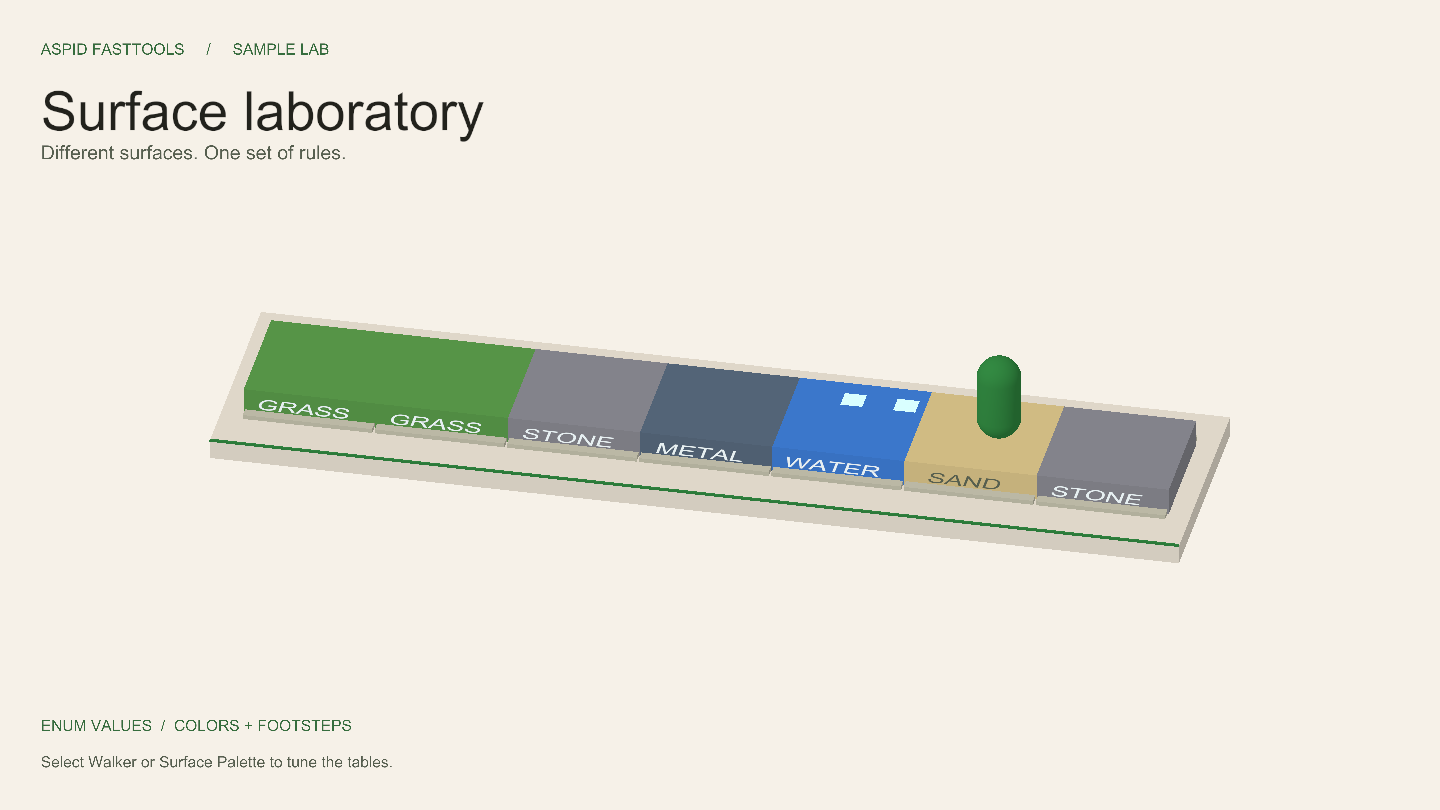
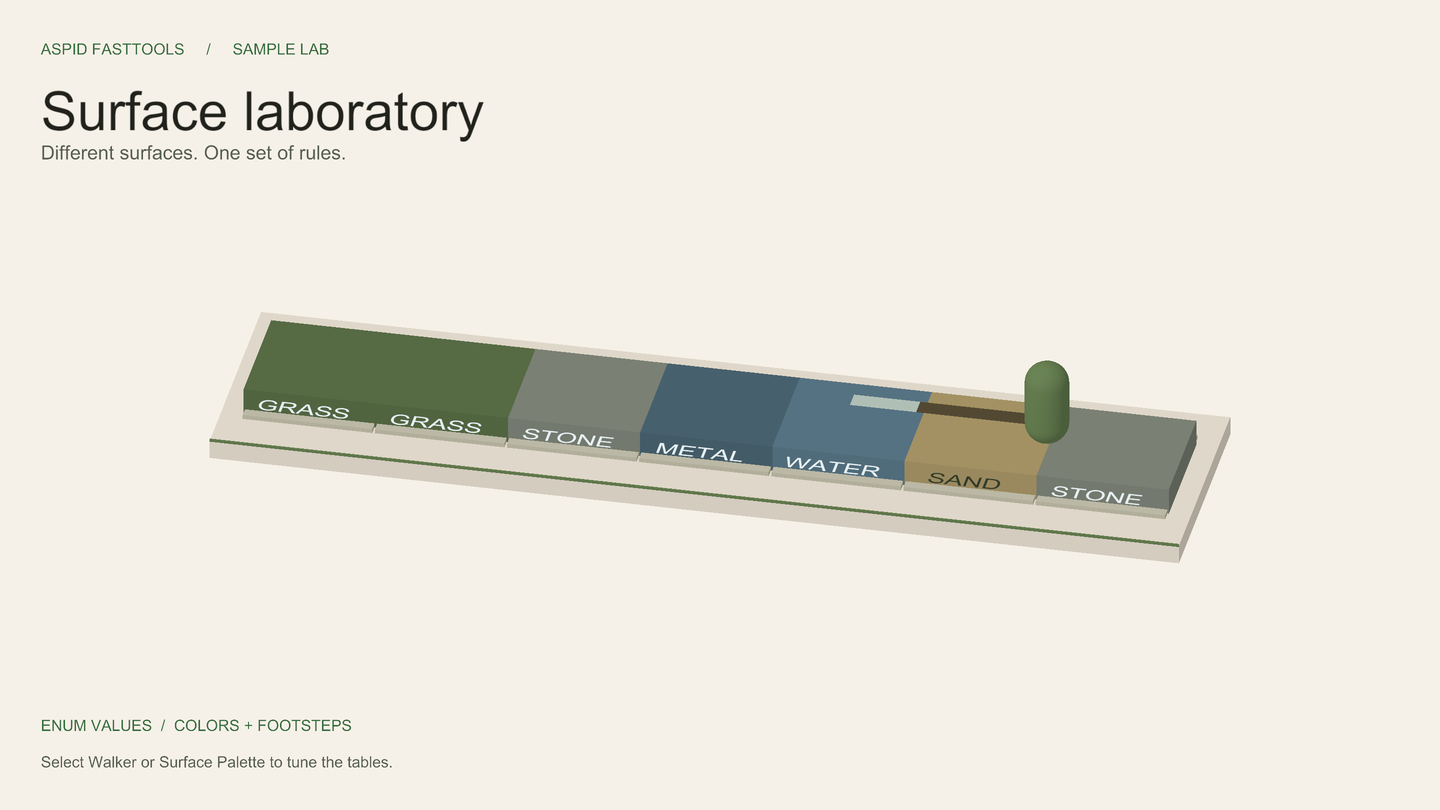
feat(samples): refine demo media and add continuous surface trails
- Remove duplicate article covers and decorative GIF text.
- Replace footprints with a wider trail that changes color at tile boundaries.
- Improve capture quality and harmonize light and dark accent palettes.

diff --git a/Samples~/EnumValues/Scripts/Walker.cs b/Samples~/EnumValues/Scripts/Walker.cs
@@ -4,8 +4,8 @@ using Aspid.FastTools.Enums;
 // ReSharper disable once CheckNamespace
 namespace Aspid.FastTools.Samples.EnumValues
 {
-    // Paces back and forth over the tiles. Step cadence comes from the surface, speed from the terrain flags,
-    // footprint color from the palette; every value is an EnumValues lookup with a default fallback.
+    // Paces over the tiles, drawing a continuous trail. Color sampling comes from the surface, speed from
+    // terrain flags and trail color from the palette; every lookup has a default fallback.
     public sealed class Walker : MonoBehaviour
     {
         [SerializeField] private SurfacePalette _palette;
@@ -13,20 +13,25 @@ namespace Aspid.FastTools.Samples.EnumValues
         [SerializeField] [Min(1f)] private float _range = 10f;
 
         // Enum fixed in code. No row for a surface means the Default Value.
-        [SerializeField] private EnumValues<SurfaceType, float> _stepInterval;
+        [SerializeField] [InspectorName("Color Sample Interval")]
+        private EnumValues<SurfaceType, float> _stepInterval;
 
         // Enum picked in the Inspector (TerrainFlags here). [Flags] lookup: an exact key wins first, then the
         // first entry whose flags are all contained in the value, then the default.
         [SerializeField] private EnumValues<float> _speedByTerrain;
 
-        [SerializeField] [Min(0.1f)] private float _footprintLifetime = 2f;
-
-        private static readonly int _baseColorId = Shader.PropertyToID("_BaseColor");
-        private static readonly int _colorId = Shader.PropertyToID("_Color");
+        [SerializeField] [Min(0.1f)] [InspectorName("Trail Lifetime")]
+        private float _footprintLifetime = 2f;
 
         private int _direction = 1;
         private float _nextStep;
         private SurfaceTile _tile;
+        private SurfaceTrail _trail;
+        private Material _trailMaterial;
+        private Color _trailColor;
+        private Vector3 _lastTrailPosition;
+
+        private void Awake() => _trailMaterial = GetComponent<Renderer>().sharedMaterial;
 
         private void Update()
         {
@@ -35,11 +40,39 @@ namespace Aspid.FastTools.Samples.EnumValues
             if (Mathf.Abs(position.x) > _range) _direction = -_direction;
             transform.position = position;
 
+            var previousTile = _tile;
             _tile = FindTileBelow();
-            if (_tile is null || Time.time < _nextStep) return;
+            if (_tile is null)
+            {
+                FinishTrail();
+                return;
+            }
 
-            _nextStep = Time.time + _stepInterval.GetValue(_tile.Surface);
-            LeaveFootprint(_tile.Surface);
+            var trailPosition = transform.position + Vector3.down * 0.49f;
+            if (_trail == null || previousTile != _tile || Time.time >= _nextStep)
+            {
+                _nextStep = Time.time + Mathf.Max(0.02f, _stepInterval.GetValue(_tile.Surface));
+                var color = _palette.GetFootprintColor(_tile.Surface);
+                if (_trail == null || color != _trailColor)
+                {
+                    var join = trailPosition;
+                    if (_trail != null && previousTile != null && previousTile != _tile)
+                    {
+                        // These tiles are axis-aligned: split at the collider edge, not the previous frame.
+                        var bounds = previousTile.GetComponent<Collider>().bounds;
+                        var edge = trailPosition.x > _lastTrailPosition.x ? bounds.max.x : bounds.min.x;
+                        var fraction = Mathf.InverseLerp(_lastTrailPosition.x, trailPosition.x, edge);
+                        join = Vector3.Lerp(_lastTrailPosition, trailPosition, fraction);
+                        join.x = edge;
+                    }
+                    if (_trail != null) _trail.AddPoint(join, true);
+                    BeginTrail(join, color);
+                }
+            }
+
+            // Geometry follows every frame; table sampling never creates gaps between points.
+            _trail.AddPoint(trailPosition);
+            _lastTrailPosition = trailPosition;
         }
 
         private SurfaceTile FindTileBelow() =>
@@ -47,29 +80,31 @@ namespace Aspid.FastTools.Samples.EnumValues
                 ? hit.collider.GetComponent<SurfaceTile>()
                 : null;
 
-        private void LeaveFootprint(SurfaceType surface)
+        private void BeginTrail(Vector3 position, Color color)
         {
-            var print = GameObject.CreatePrimitive(PrimitiveType.Quad);
-            Destroy(print.GetComponent<Collider>());
-            print.name = $"Footprint ({surface})";
-            print.transform.SetPositionAndRotation(transform.position + Vector3.down * 0.49f, Quaternion.Euler(90f, 0f, 0f));
-            print.transform.localScale = Vector3.one * 0.5f;
-
-            var block = new MaterialPropertyBlock();
-            var color = _palette.GetFootprintColor(surface);
-            block.SetColor(_baseColorId, color);
-            block.SetColor(_colorId, color);
-            print.GetComponent<Renderer>().SetPropertyBlock(block);
-
-            Destroy(print, _footprintLifetime);
+            FinishTrail();
+            var trailObject = new GameObject("Surface trail");
+            _trail = trailObject.AddComponent<SurfaceTrail>();
+            _trail.Initialize(_trailMaterial, color, _footprintLifetime);
+            _trailColor = color;
+            _trail.AddPoint(position, true);
         }
+
+        private void FinishTrail()
+        {
+            if (_trail == null) return;
+            Destroy(_trail.gameObject, _footprintLifetime);
+            _trail = null;
+        }
+
+        private void OnDisable() => FinishTrail();
 
         [ContextMenu("Log Tables")]
         private void LogTables()
         {
             // foreach yields the configured rows only, in list order; the default value is not part of it.
             foreach (var (surface, interval) in _stepInterval)
-                Debug.Log($"Step interval {surface}: {interval:0.00}s", this);
+                Debug.Log($"Color sample interval {surface}: {interval:0.00}s", this);
 
             foreach (var (flags, multiplier) in _speedByTerrain)
                 Debug.Log($"Speed x{multiplier:0.00} on [{flags}]", this);

diff --git a/Samples~/EnumValues/Scripts/SurfaceTrail.cs b/Samples~/EnumValues/Scripts/SurfaceTrail.cs
@@ -1,0 +1,89 @@
+using System.Collections.Generic;
+using UnityEngine;
+
+namespace Aspid.FastTools.Samples.EnumValues
+{
+    // A flat ribbon on the floor. Each color section keeps its own history, so palette changes do not
+    // recolor old points. Time-based trimming moves the tail smoothly instead of removing whole marks.
+    public sealed class SurfaceTrail : MonoBehaviour
+    {
+        private readonly List<Vector3> _points = new();
+        private readonly List<float> _times = new();
+        private readonly List<Vector3> _vertices = new();
+        private readonly List<Vector3> _normals = new();
+        private readonly List<int> _triangles = new();
+        private Mesh _mesh;
+        private float _lifetime;
+
+        public void Initialize(Material material, Color color, float lifetime)
+        {
+            _lifetime = lifetime;
+            _mesh = new Mesh { name = "Surface trail ribbon" };
+            _mesh.MarkDynamic();
+            gameObject.AddComponent<MeshFilter>().sharedMesh = _mesh;
+            var renderer = gameObject.AddComponent<MeshRenderer>();
+            renderer.sharedMaterial = material;
+            renderer.shadowCastingMode = UnityEngine.Rendering.ShadowCastingMode.Off;
+            renderer.receiveShadows = false;
+            var block = new MaterialPropertyBlock();
+            block.SetColor("_Color", color);
+            block.SetColor("_BaseColor", color);
+            renderer.SetPropertyBlock(block);
+        }
+
+        public void AddPoint(Vector3 position, bool force = false)
+        {
+            if (!force && _points.Count > 0 && Vector3.Distance(_points[_points.Count - 1], position) < 0.02f) return;
+            _points.Add(position);
+            _times.Add(Time.time);
+        }
+
+        private void LateUpdate()
+        {
+            var cutoff = Time.time - _lifetime;
+            while (_times.Count > 1 && _times[1] <= cutoff)
+            {
+                _times.RemoveAt(0);
+                _points.RemoveAt(0);
+            }
+
+            _mesh.Clear();
+            if (_points.Count < 2) return;
+            _vertices.Clear();
+            _normals.Clear();
+            _triangles.Clear();
+            var halfWidth = Vector3.forward * 0.225f;
+            for (var i = 0; i < _points.Count; i++)
+            {
+                var point = _points[i];
+                if (i == 0 && _times[0] < cutoff)
+                    point = Vector3.Lerp(point, _points[1], Mathf.InverseLerp(_times[0], _times[1], cutoff));
+                _vertices.Add(point + halfWidth);
+                _vertices.Add(point - halfWidth);
+                _normals.Add(Vector3.up);
+                _normals.Add(Vector3.up);
+                if (i == 0) continue;
+                var a = (i - 1) * 2;
+                if (_points[i].x >= _points[i - 1].x)
+                {
+                    _triangles.Add(a); _triangles.Add(a + 2); _triangles.Add(a + 1);
+                    _triangles.Add(a + 1); _triangles.Add(a + 2); _triangles.Add(a + 3);
+                }
+                else
+                {
+                    _triangles.Add(a); _triangles.Add(a + 1); _triangles.Add(a + 2);
+                    _triangles.Add(a + 1); _triangles.Add(a + 3); _triangles.Add(a + 2);
+                }
+            }
+            _mesh.SetVertices(_vertices);
+            _mesh.SetNormals(_normals);
+            _mesh.SetTriangles(_triangles, 0);
+            _mesh.RecalculateBounds();
+        }
+
+        private void OnDestroy()
+        {
+            if (_mesh != null) Destroy(_mesh);
+        }
+    }
+}

diff --git a/Samples~/EnumValues/Documentation/README.md b/Samples~/EnumValues/Documentation/README.md
@@ -1,8 +1,6 @@
 # EnumValues Sample
 
-![The surface laboratory: a labeled track and a moving walker.](Images/scene.png)
-
-A character pacing over a row of floor tiles. The tile color, the footprint color, the step cadence and the walking speed are all `EnumValues` lookups keyed by a surface enum or a `[Flags]` terrain enum, configured in the Inspector with a default fallback. The API reference lives in [EnumValues](../../../Documentation/06-enum-values.md).
+A character pacing over a row of floor tiles. The tile color, the trail color, the color sampling interval and the walking speed are all `EnumValues` lookups keyed by a surface enum or a `[Flags]` terrain enum, configured in the Inspector with a default fallback. The API reference lives in [EnumValues](../../../Documentation/06-enum-values.md).
 
 ```csharp
 [SerializeField] private EnumValues<SurfaceType, float> _stepInterval; // enum fixed in code
@@ -16,16 +14,16 @@ Surface colors and footprint colors, each with a Default Value.
 ## Open it
 
 1. Import the sample and open `Scenes/EnumValues.unity`.
-2. Enter Play Mode: the **Walker** crosses seven tiles, leaving colored footprints that disappear after two seconds, faster on hot metal and slower on wet grass.
+2. Enter Play Mode: the **Walker** crosses seven tiles, leaving a continuous colored trail whose older end recedes after two seconds. Movement is faster on hot metal and slower on wet grass.
 
-![The walker crosses different surfaces and leaves colored footprints.](Images/demo.gif)
+![The walker crosses different surfaces and leaves a continuous colored trail.](Images/demo.gif)
 
-The walker crosses different surfaces and leaves colored footprints.
+The walker crosses different surfaces and leaves a continuous colored trail.
 
 ## Try
 
 1. **Typed variant.** Select `Data/SurfacePalette.asset`. Both tables are `EnumValues<SurfaceType, Color>`: the enum row is read-only because the type is fixed by the field. Change the `Grass` color; the tiles recolor immediately, without Play Mode.
-2. **Default value.** `Footprint Colors` has rows only for `Grass`, `Sand` and `Water`. Stone and metal footprints use `Default Value`. Right-click the field and choose **Populate Missing Enum Members** to add the rest, seeded with that default.
+2. **Default value.** `Footprint Colors` has rows only for `Grass`, `Sand` and `Water`. Trail segments on stone and metal use `Default Value`. Right-click the field and choose **Populate Missing Enum Members** to add the rest, seeded with that default.
 3. **Untyped variant.** Select **Walker**. `Speed By Terrain` is an `EnumValues<float>` whose enum, `TerrainFlags`, was picked in the header row. Each key is a flags dropdown, and `Wet, Slippery` is a row of its own.
 4. **`[Flags]` lookup rules**, visible as the walker crosses the tiles:
    - an **exact** key wins first: the `Water (Wet, Slippery)` tile resolves to the `Wet, Slippery` row (`0.5`), even though `Wet` and `Slippery` rows exist;
@@ -40,5 +38,6 @@ The walker crosses different surfaces and leaves colored footprints.
 |---|---|
 | `Scripts/SurfacePalette.cs` | `EnumValues<TEnum, TValue>` on a ScriptableObject |
 | `Scripts/Walker.cs` | Both variants in a component, `GetValue` on a plain and a `[Flags]` key, `foreach` |
+| `Scripts/SurfaceTrail.cs` | Draws a continuous ribbon and trims points by age |
 | `Scripts/SurfaceTile.cs` | Checks the palette color on editor updates, applying edits and Undo without Play Mode |
 | `Scripts/TerrainFlags.cs` | The `[Flags]` enum with combinable members |

diff --git a/Samples~/EnumValues/Documentation/README.ru.md b/Samples~/EnumValues/Documentation/README.ru.md
@@ -1,8 +1,6 @@
 # Пример EnumValues
 
-![Лаборатория поверхностей: подписанная дорожка и движущийся персонаж.](Images/scene.png)
-
-Персонаж ходит по ряду плиток. Цвет плитки, цвет следа, частота шагов и скорость — всё это `EnumValues`-поиски по enum поверхности или `[Flags]`-enum рельефа, настроенные в инспекторе со значением по умолчанию. Справочник — [EnumValues](../../../Documentation/ru/06-enum-values.md).
+Персонаж ходит по ряду плиток. Цвет плитки, цвет следа, интервал обновления цвета и скорость — всё это `EnumValues`-поиски по enum поверхности или `[Flags]`-enum рельефа, настроенные в инспекторе со значением по умолчанию. Справочник — [EnumValues](../../../Documentation/ru/06-enum-values.md).
 
 ```csharp
 [SerializeField] private EnumValues<SurfaceType, float> _stepInterval; // enum задан в коде
@@ -16,11 +14,11 @@
 ## Как открыть
 
 1. Импортируйте пример и откройте `Scenes/EnumValues.unity`.
-2. Войдите в Play Mode: **Walker** проходит семь плиток, оставляя цветные следы, которые исчезают через две секунды, быстрее на горячем металле и медленнее на мокрой траве.
+2. Войдите в Play Mode: **Walker** проходит семь плиток, оставляя непрерывную цветную линию. Её старый конец сокращается через две секунды. На горячем металле персонаж движется быстрее, на мокрой траве — медленнее.
 
-![Персонаж проходит по разным поверхностям и оставляет цветные следы.](Images/demo.gif)
+![Персонаж проходит по разным поверхностям и оставляет непрерывную цветную линию.](Images/demo.gif)
 
-Персонаж проходит по разным поверхностям и оставляет цветные следы.
+Персонаж проходит по разным поверхностям и оставляет непрерывную цветную линию.
 
 ## Попробуйте
 
@@ -40,5 +38,6 @@
 |---|---|
 | `Scripts/SurfacePalette.cs` | `EnumValues<TEnum, TValue>` на ScriptableObject |
 | `Scripts/Walker.cs` | Оба варианта в компоненте, `GetValue` по обычному и `[Flags]`-ключу, `foreach` |
+| `Scripts/SurfaceTrail.cs` | Рисует непрерывную линию и убирает старые точки |
 | `Scripts/SurfaceTile.cs` | Следит за цветом из палитры через editor update; применяет изменения и Undo без Play Mode |
 | `Scripts/TerrainFlags.cs` | `[Flags]`-enum с комбинируемыми членами |

diff --git a/Samples~/Types/Documentation/README.ru.md b/Samples~/Types/Documentation/README.ru.md
@@ -1,7 +1,5 @@
 # Пример Types
 
-![Арена: обычные и элитные враги движутся к центру.](Images/scene.png)
-
 Хранение типа позволяет выбирать в инспекторе, какие объекты создавать и какое поведение использовать, без изменения кода, который с ними работает. На нескольких примерах вы увидите, где это пригодится и как с этим работать: настроите типы обычных и элитных врагов, выберете способ расстановки волны и замените тип уже существующего компонента с сохранением общих данных.
 
 Справочник по API — [Serializable Type System](../../../Documentation/ru/02-serializable-types.md).

diff --git a/Samples~/SerializeReferences/Documentation/README.ru.md b/Samples~/SerializeReferences/Documentation/README.ru.md
@@ -1,7 +1,5 @@
 # Пример SerializeReferences
 
-![Оружейная лаборатория: турель, мишень и видимые эффекты.](Images/scene.png)
-
 Турель, стреляющая полиморфным оружием по тренировочному манекену. Каждое оружие, эффект и модификатор — поле `[SerializeReference]` с выпадающим списком `[TypeSelector]`, а в комплекте идут намеренно сломанные ассеты, на которых можно пройти инструменты ремонта. Справочник — [SerializeReference Selector](../../../Documentation/ru/03-serialize-reference-selector.md) и [SerializeReference Tooling](../../../Documentation/ru/04-serialize-reference-tooling.md).
 
 ```csharp

diff --git a/Samples~/ProfilerMarkers/Documentation/README.ru.md b/Samples~/ProfilerMarkers/Documentation/README.ru.md
@@ -1,7 +1,5 @@
 # Пример ProfilerMarkers
 
-![Обсерватория стаи: цветная симуляция над координатной сеткой.](Images/scene.png)
-
 Стая кубов, которой управляет обычный C#-класс, и `this.Marker()` вокруг каждой фазы. Генератор превращает каждый вызов в статический `ProfilerMarker`, поэтому Profiler показывает именованное дерево кадра без единого поля маркера, написанного руками. Справочник — [ProfilerMarkers](../../../Documentation/ru/05-profiler-markers.md).
 
 ```csharp

diff --git a/Samples~/SerializeReferences/Documentation/README.md b/Samples~/SerializeReferences/Documentation/README.md
@@ -1,7 +1,5 @@
 # SerializeReferences Sample
 
-![The weapon lab: a turret, a target and visible effects.](Images/scene.png)
-
 A turret that fires polymorphic weapons at a training dummy. Every weapon, effect and modifier is a `[SerializeReference]` field with a `[TypeSelector]` dropdown, and the sample ships assets that are broken on purpose so you can walk through the repair tools. The feature reference lives in [SerializeReference Selector](../../../Documentation/03-serialize-reference-selector.md) and [SerializeReference Tooling](../../../Documentation/04-serialize-reference-tooling.md).
 
 ```csharp

diff --git a/Samples~/Types/Documentation/README.md b/Samples~/Types/Documentation/README.md
@@ -1,7 +1,5 @@
 # Types Sample
 
-![The spawn arena: regular and elite enemies converge on the center.](Images/scene.png)
-
 Storing a type lets you choose which objects to create and which behavior to use in the Inspector, without changing the code that works with them. These examples show where this is useful and how to use it: configure regular and elite enemy types, choose a wave layout, and replace the type of an existing component while preserving shared data.
 
 For the API reference, see [Serializable Type System](../../../Documentation/02-serializable-types.md).

diff --git a/Samples~/ProfilerMarkers/Documentation/README.md b/Samples~/ProfilerMarkers/Documentation/README.md
@@ -1,7 +1,5 @@
 # ProfilerMarkers Sample
 
-![The flock observatory: a color-coded simulation above a reference grid.](Images/scene.png)
-
 A flock of cubes steered by a plain C# simulation, with `this.Marker()` around each phase. The source generator turns every call site into a static `ProfilerMarker`, so the Profiler shows a named tree of the frame with no marker fields written by hand. The API reference lives in [ProfilerMarkers](../../../Documentation/05-profiler-markers.md).
 
 ```csharp

diff --git a/Samples~/EditorTools/Documentation/README.ru.md b/Samples~/EditorTools/Documentation/README.ru.md
@@ -9,8 +9,6 @@ rootVisualElement
     .AddChild(details.SetFlexGrow(1));
 ```
 
-![Выберите способность, чтобы изменить её свойства и увидеть описание эффекта.](Images/ability-catalog.png)
-
 Выберите способность, чтобы изменить её свойства и увидеть описание эффекта.
 
 ## Как открыть

diff --git a/Samples~/EditorTools/Documentation/README.md b/Samples~/EditorTools/Documentation/README.md
@@ -9,8 +9,6 @@ rootVisualElement
     .AddChild(details.SetFlexGrow(1));
 ```
 
-![Select an ability to edit its properties and view its effect description.](Images/ability-catalog.png)
-
 Select an ability to edit its properties and view its effect description.
 
 ## Open it
